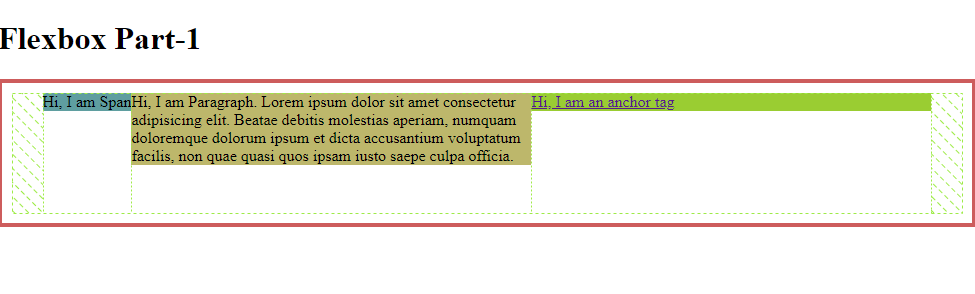
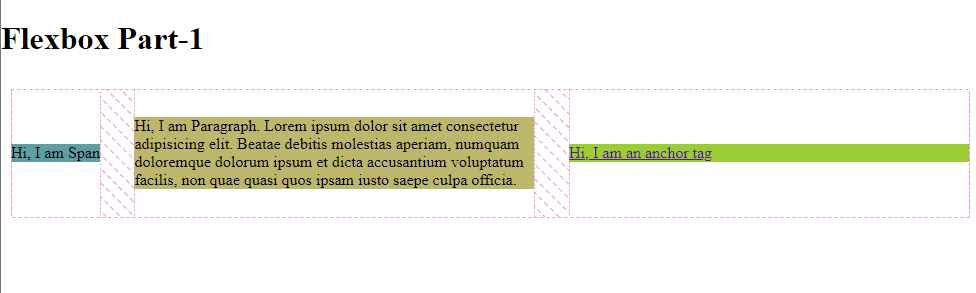
day 4

Changed region(s): [[0.0, 0.2457, 1.0, 0.7986], [0.0, 0.0922, 0.2154, 0.1843]]

diff --git a/15_CSS-Flexbox/style.css b/15_CSS-Flexbox/style.css
@@ -8,37 +8,47 @@ body{
 
 .parent{
     padding: 10px;
-    border: 4px solid indianred;
-    display: flex;
-    justify-content: center;
     height: 50vh;
-    align-items: flex-start;
+    display: flex;
+    align-items: center;
+    flex-direction: column;
+    justify-content: space-between;
+    /* justify-content: center; */
+    /* font-display: row; */
+    /* flex-direction: row-reverse; */
+    /* border: 4px solid indianred; */
+    /* height: 100vh; */
+    /* justify-content: center; */
+    /* justify-content: space-evenly; */
+    /* justify-content: space-around; */
+    /* align-items: stretch; */
 }
 
 .parent span{
-    /* border: 4px solid cadetblue; */
     background-color: cadetblue;
-    flex-shrink: 0;
+    /* border: 4px solid cadetblue; */
+    /* flex-shrink: 0; */
     /* width: 200px; */
     /* height: 300px; */
     /* flex-grow: 1; */
 }
 
+
 .parent p{
-    /* border: 4px solid darkkhaki; */
     background-color: darkkhaki;
     margin: 0;
-    flex-shrink: 0;
     width: 400px;
-    /* width: 400px; */
+    /* border: 4px solid darkkhaki; */
+    /* flex-shrink: 0; */
     /* width: max-content; */
     /* width: min-content; */
 }
 
 .parent a{
-    /* border: 4px solid yellowgreen; */
     background-color: yellowgreen;
-    flex-shrink: 0;
     width: 400px;
+    height: 70px;
+    /* border: 4px solid yellowgreen; */
+    /* flex-shrink: 0; */
     /* flex-shrink: 0; */
 }

diff --git a/15_CSS-Flexbox/index.html b/15_CSS-Flexbox/index.html
@@ -9,12 +9,10 @@
 </head>
 
 <body>
-    <h1>Flexbox Part-1</h1>
+    <!-- <h1>Flexbox Part-1</h1> -->
     <div class="parent">
         <span>Hi, I am Span</span>
-        <p>Hi, I am Paragraph. Lorem ipsum dolor sit amet consectetur adipisicing elit. Beatae debitis molestias
-            aperiam, numquam doloremque dolorum ipsum et dicta accusantium voluptatum facilis, non quae quasi quos ipsam
-            iusto saepe culpa officia.</p>
+        <p>Hi, I am Paragraph.</p>
         <a href="./">Hi, I am an anchor tag</a>
     </div>
 </body>

diff --git a/15_CSS-Flexbox/README.md b/15_CSS-Flexbox/README.md
@@ -106,7 +106,9 @@ The following example demonstrates how to use flexbox to create a flexible grid 
 </div>
 ```
 
-### Some other demonstrations
+## Some demonstrations
+
+### To allign nav bar (type-1)
 
 code
 ```CSS
@@ -121,9 +123,47 @@ code
 
 ```
 image
-![flexbox](./src/image.png)
+![flexbox](./src/image3.png)
 
 > Think about `align-items: flex-start;`
+
+### To allign nav bar (type-2)
+
+code
+```CSS
+.parent{
+    padding: 10px;
+    /* border: 4px solid indianred; */
+    height: 50vh;
+    display: flex;
+    justify-content: center;
+    align-items: center;
+}
+
+
+```
+image
+![flexbox](./src/image2.png)
+
+
+### To allign nav bar (type-3)
+
+code
+```CSS
+.parent{
+    padding: 10px;
+    /* border: 4px solid indianred; */
+    height: 50vh;
+    display: flex;
+    justify-content: space-between;
+    align-items: center ;
+}
+
+
+```
+image
+![flexbox](./src/image.png)
+
 ### Learn More
 
 For more information about CSS Flexbox, visit: 
